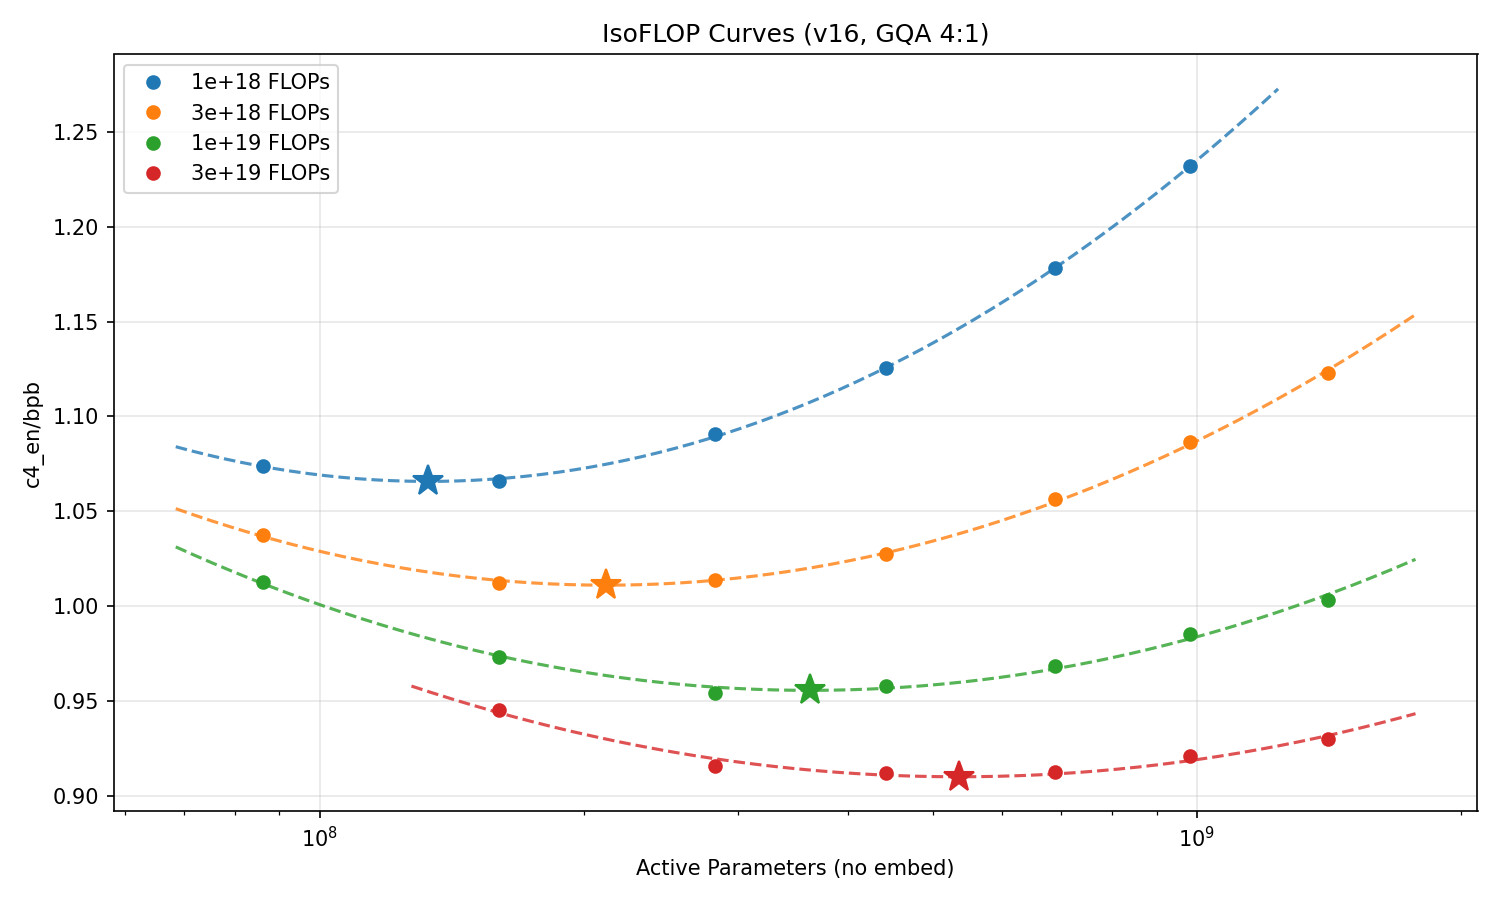
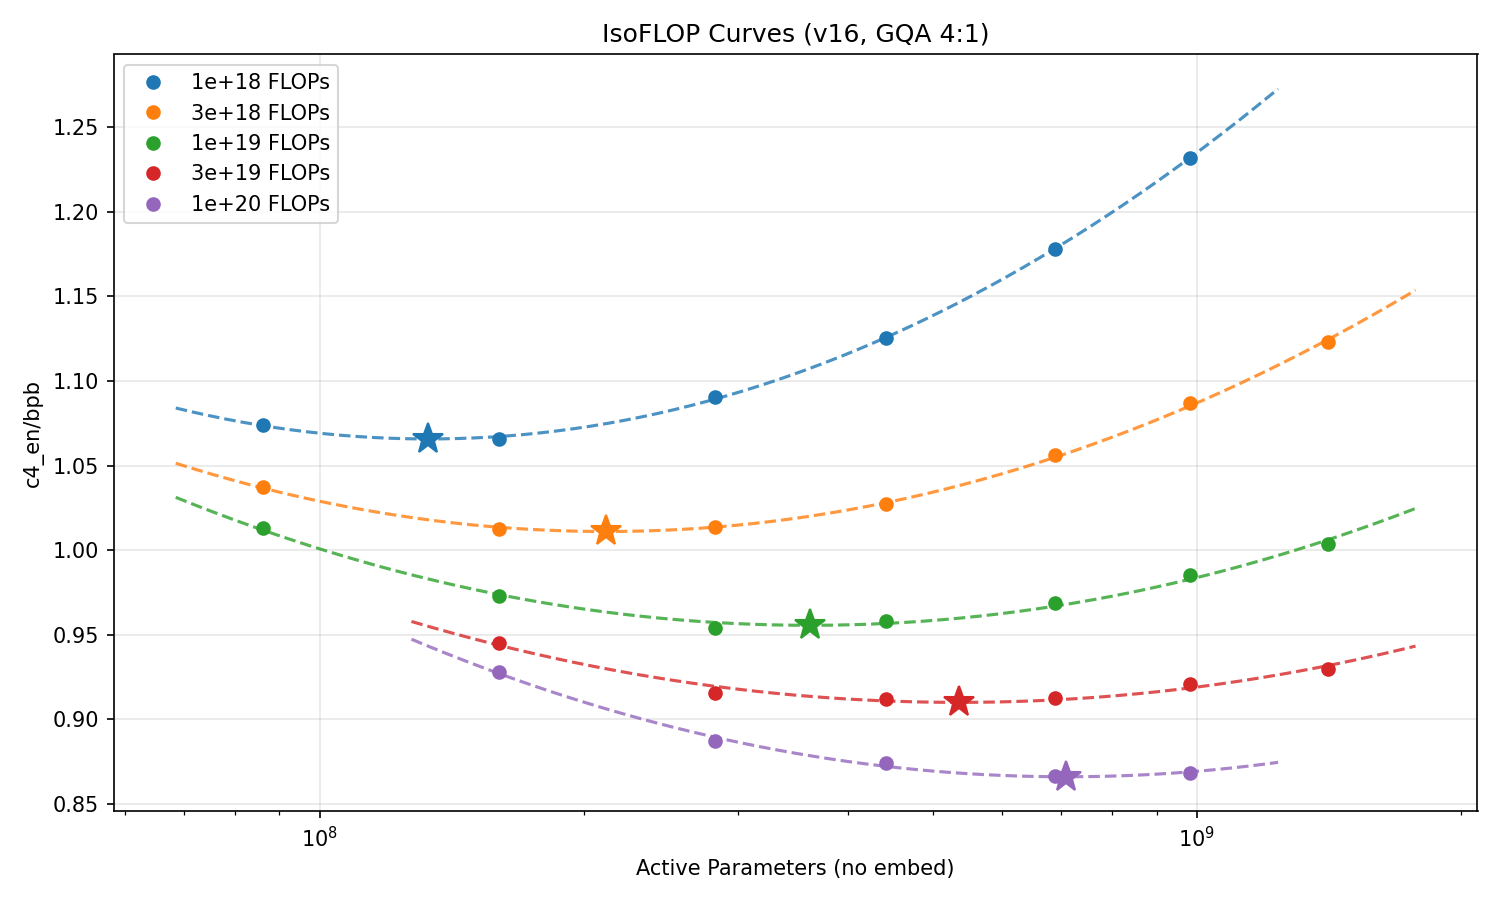
Update isoflop plots with 1e20, add macro_loss scaling law, N*/T* plots
- Include 1e20 data (6 dims) in isoflop curves
- Scaling law now uses paloma macro_loss: L∞=1.432 + 68.73·C^(-0.084)
- Add N*(C) and T*(C) separate subplots with no-lm_head params
  N* = 0.0674·C^0.492, T* = 2.57·C^0.507 (exponent sum = 0.999)
- Add expert_parallel config to GrugMoeLaunchConfig
- Add 1e21 d2048 and 3e20-d1280-v2 resume configs

diff --git a/experiments/grug/moe_apr2/new_plots/isoflop_curves.py b/experiments/grug/moe_apr2/new_plots/isoflop_curves.py
@@ -69,6 +69,11 @@ def compute_active_params(dim):
     return num_layers * per_layer + lm_head
 
 
+def compute_active_params_no_lmhead(dim):
+    """Active parameters excluding lm_head."""
+    return compute_active_params(dim) - dim * 128256
+
+
 def compute_fpt(dim):
     """FLOPs per token (no lm_head)."""
     hidden_head_ratio = 128
@@ -170,7 +175,7 @@ def main():
             continue
         by_budget.setdefault(r["budget"], []).append(r)
 
-    target_budgets = [1e18, 3e18, 1e19, 3e19]
+    target_budgets = [1e18, 3e18, 1e19, 3e19, 1e20]
     colors = {1e18: "C0", 3e18: "C1", 1e19: "C2", 3e19: "C3", 1e20: "C4"}
 
     # ---- Plot 1: IsoFLOP curves (BPB vs active params) ----
@@ -206,13 +211,15 @@ def main():
             ax.plot(10**log_grid, np.polyval(coeffs, log_grid), "--", color=color, alpha=0.8)
             ax.plot(opt_params, opt_bpb, "*", color=color, markersize=15)
 
-        # Compute FLOPs for the optimal
+        # Compute FLOPs and no-lmhead params for the optimal
+        best_dim = dims_sorted[np.argmin(bpbs_sorted)]
         optima.append(
             {
                 "budget": budget,
                 "opt_params": opt_params,
+                "opt_params_no_lm": compute_active_params_no_lmhead(best_dim),
                 "opt_bpb": opt_bpb,
-                "opt_tokens": budget / (3 * compute_fpt(dims_sorted[np.argmin(bpbs_sorted)])),
+                "opt_tokens": budget / (3 * compute_fpt(best_dim)),
             }
         )
 
@@ -321,17 +328,49 @@ def main():
     plt.close(fig1c)
     print("Saved isoflop_curves_tokens_macro_loss.png")
 
-    # ---- Plot 2: Optimal BPB vs Compute (scaling law) ----
-    if len(optima) >= 2:
+    # ---- Compute macro_loss optima and optimal tokens ----
+    macro_optima = []
+    for budget in target_budgets:
+        runs = by_budget.get(budget, [])
+        if not runs:
+            continue
+        dims = [r["dim"] for r in runs]
+        macros = [r.get("macro_loss") for r in runs]
+        if any(m is None for m in macros):
+            continue
+        params = [compute_active_params(d) for d in dims]
+        order = np.argsort(params)
+        params_sorted = np.array(params)[order]
+        macros_sorted = np.array(macros)[order]
+        dims_sorted = np.array(dims)[order]
+
+        log_params = np.log10(params_sorted)
+        coeffs = np.polyfit(log_params, macros_sorted, 2)
+        if coeffs[0] > 0:
+            opt_log = -coeffs[1] / (2 * coeffs[0])
+            opt_macro = np.polyval(coeffs, opt_log)
+            opt_params = 10**opt_log
+        else:
+            idx = np.argmin(macros_sorted)
+            opt_params = params_sorted[idx]
+            opt_macro = macros_sorted[idx]
+
+        # Find optimal tokens from FPT at nearest dim
+        best_dim = dims_sorted[np.argmin(macros_sorted)]
+        opt_tokens = budget / (3 * compute_fpt(best_dim))
+
+        macro_optima.append({"budget": budget, "opt_params": opt_params, "opt_macro": opt_macro, "opt_tokens": opt_tokens})
+
+    # ---- Plot 2: Optimal macro_loss vs Compute (scaling law) ----
+    if len(macro_optima) >= 2:
         fig2, ax2 = plt.subplots(figsize=(8, 5))
 
-        C_arr = np.array([o["budget"] for o in optima])
-        bpb_arr = np.array([o["opt_bpb"] for o in optima])
+        C_arr = np.array([o["budget"] for o in macro_optima])
+        macro_arr = np.array([o["opt_macro"] for o in macro_optima])
 
-        ax2.plot(C_arr, bpb_arr, "o", color="C0", markersize=10)
+        ax2.plot(C_arr, macro_arr, "o", color="C0", markersize=10)
 
-        # Fit asymptotic power law
-        fit = fit_asymptotic_powerlaw(C_arr, bpb_arr)
+        fit = fit_asymptotic_powerlaw(C_arr, macro_arr)
         if fit:
             C_grid = np.logspace(np.log10(C_arr.min()) - 0.3, np.log10(C_arr.max()) + 0.5, 200)
             yhat = fit["L_inf"] + fit["A"] * C_grid ** (-fit["alpha"])
@@ -344,29 +383,80 @@ def main():
                 label=f"L∞={fit['L_inf']:.3f} + {fit['A']:.2f}·C^(-{fit['alpha']:.3f})",
             )
             ax2.legend()
-            print(f"Scaling law: L_inf={fit['L_inf']:.4f}, A={fit['A']:.3f}, alpha={fit['alpha']:.4f}")
+            print(f"Scaling law (macro): L_inf={fit['L_inf']:.4f}, A={fit['A']:.3f}, alpha={fit['alpha']:.4f}")
 
-        for o in optima:
+        for o in macro_optima:
             ax2.annotate(
-                f"{o['budget']:.0e}", (o["budget"], o["opt_bpb"]), textcoords="offset points", xytext=(5, 5), fontsize=8
+                f"{o['budget']:.0e}", (o["budget"], o["opt_macro"]), textcoords="offset points", xytext=(5, 5), fontsize=8
             )
 
         ax2.set_xscale("log")
         ax2.set_xlabel("Compute (FLOPs, excl lm_head)")
-        ax2.set_ylabel("Optimal c4_en/bpb")
-        ax2.set_title("Optimal BPB vs Compute")
+        ax2.set_ylabel("Optimal paloma macro_loss")
+        ax2.set_title("Optimal macro_loss vs Compute")
         ax2.grid(True, alpha=0.3)
         fig2.tight_layout()
         fig2.savefig(f"{PLOT_DIR}/isoflop_scaling_law.png", dpi=150)
         plt.close(fig2)
         print("Saved isoflop_scaling_law.png")
 
+    # ---- Plot 3: N*(C) and T*(C) on separate subplots ----
+    if len(optima) >= 2:
+        fig3, (ax3a, ax3b) = plt.subplots(1, 2, figsize=(14, 5))
+
+        C_arr = np.array([o["budget"] for o in optima])
+        T_arr = np.array([o["opt_tokens"] for o in optima])
+        N_arr = np.array([o["opt_params_no_lm"] for o in optima])
+
+        # Fit power laws
+        a_t, b_t = np.polyfit(np.log10(C_arr), np.log10(T_arr), 1)
+        a_n, b_n = np.polyfit(np.log10(C_arr), np.log10(N_arr), 1)
+        C_grid = np.logspace(np.log10(C_arr.min()) - 0.3, np.log10(C_arr.max()) + 0.5, 200)
+
+        # Left: N*(C)
+        ax3a.plot(C_arr, N_arr, "s", color="C0", markersize=10)
+        ax3a.plot(C_grid, 10 ** (a_n * np.log10(C_grid) + b_n), "--", color="C0", alpha=0.5,
+                  label=f"N* = {10**b_n:.2e}·C^{{{a_n:.3f}}}")
+        for o in optima:
+            ax3a.annotate(f"{o['budget']:.0e}", (o["budget"], o["opt_params_no_lm"]),
+                          textcoords="offset points", xytext=(5, 5), fontsize=8)
+        ax3a.set_xscale("log")
+        ax3a.set_yscale("log")
+        ax3a.set_xlabel("Compute (FLOPs, excl lm_head)")
+        ax3a.set_ylabel("Optimal Active Params (no lm_head)")
+        ax3a.set_title("N*(C)")
+        ax3a.legend()
+        ax3a.grid(True, alpha=0.3)
+
+        # Right: T*(C)
+        ax3b.plot(C_arr, T_arr, "o", color="C1", markersize=10)
+        ax3b.plot(C_grid, 10 ** (a_t * np.log10(C_grid) + b_t), "--", color="C1", alpha=0.5,
+                  label=f"T* = {10**b_t:.2e}·C^{{{a_t:.3f}}}")
+        for o in optima:
+            ax3b.annotate(f"{o['budget']:.0e}", (o["budget"], o["opt_tokens"]),
+                          textcoords="offset points", xytext=(5, 5), fontsize=8)
+        ax3b.set_xscale("log")
+        ax3b.set_yscale("log")
+        ax3b.set_xlabel("Compute (FLOPs, excl lm_head)")
+        ax3b.set_ylabel("Optimal Tokens")
+        ax3b.set_title("T*(C)")
+        ax3b.legend()
+        ax3b.grid(True, alpha=0.3)
+
+        fig3.suptitle(f"Scaling Laws (exponent sum = {a_n + a_t:.3f})", fontsize=13)
+        fig3.tight_layout()
+        fig3.savefig(f"{PLOT_DIR}/isoflop_nt_scaling.png", dpi=150)
+        plt.close(fig3)
+        print(f"T*(C) = {10**b_t:.2e} · C^{a_t:.3f}")
+        print(f"N*(C) = {10**b_n:.2e} · C^{a_n:.3f}")
+        print("Saved isoflop_nt_scaling.png")
+
     # ---- Print summary table ----
     print("\nOptima:")
-    print(f"{'Budget':>10s}  {'Opt Params':>12s}  {'Opt BPB':>10s}")
-    print("-" * 36)
-    for o in optima:
-        print(f"{o['budget']:>10.0e}  {o['opt_params']:>12.2e}  {o['opt_bpb']:>10.4f}")
+    print(f"{'Budget':>10s}  {'Opt Params':>12s}  {'Opt BPB':>10s}  {'Opt Tokens':>12s}  {'Opt Macro':>10s}")
+    print("-" * 60)
+    for o, m in zip(optima, macro_optima):
+        print(f"{o['budget']:>10.0e}  {o['opt_params']:>12.2e}  {o['opt_bpb']:>10.4f}  {o['opt_tokens']:>12.2e}  {m['opt_macro']:>10.4f}")
 
 
 if __name__ == "__main__":

diff --git a/experiments/grug/moe_apr2/launch.py b/experiments/grug/moe_apr2/launch.py
@@ -54,6 +54,7 @@ class GrugMoeLaunchConfig:
     grug_trainer: GrugTrainerConfig = field(default_factory=GrugTrainerConfig)
     eval: GrugEvalConfig | None = field(default_factory=GrugEvalConfig)
     load_checkpoint_path: str | None = None
+    expert_parallel: int = 1
 
 
 def _resolve_tracker(tracker: TrackerConfig, run_id: str) -> TrackerConfig:
@@ -72,7 +73,7 @@ def run_grug_moe_trial(config: GrugMoeLaunchConfig) -> None:
         mp=jmp.get_policy(config.mp),
         tracker=_resolve_tracker(config.tracker, config.run_id),
         use_explicit_mesh_axes=True,
-        mesh=MeshConfig(axes={"expert": 1}),
+        mesh=MeshConfig(axes={"expert": config.expert_parallel}),
         require_accelerator=True,
         allow_nondivisible_batch_size=False,
         allow_partial_checkpoint=True,
@@ -1126,8 +1127,60 @@ def create_3e20_sweep() -> list[ExecutorStep]:
     return steps
 
 
+def create_1e21_d2048() -> list[ExecutorStep]:
+    """1e21 run at d2048, bs=1024, expert_parallel=4 on v4-512."""
+    hidden_dim = 2048
+    budget = 1e21
+    batch_size = 1024
+
+    model_cfg = HEURISTIC.build_model_config(hidden_dim)
+    fpt = _compute_flops_per_token(model_cfg)
+    tokens = budget / (3 * fpt)
+    train_steps = max(1, round(tokens / (batch_size * SEQ_LEN)))
+    actual_tokens = train_steps * batch_size * SEQ_LEN
+    optimizer = HEURISTIC.build_optimizer_config(batch_size, actual_tokens, hidden_dim)
+
+    run_id = "isoflop-moe-v16-1e+21-d2048"
+    config = GrugMoeLaunchConfig(
+        model=versioned(model_cfg),
+        data=NEMOTRON_MIX_WITH_DEFAULT_VALIDATION,
+        output_path=this_output_path(),
+        run_id=run_id,
+        resources=versioned(ResourceConfig.with_tpu("v4-512")),
+        steps=versioned(train_steps),
+        batch_size=versioned(batch_size),
+        seed=versioned(0),
+        mp=versioned("params=float32,compute=bfloat16,output=bfloat16"),
+        tracker=WandbConfig(
+            project="dial_moe",
+            tags=["grug", "moe-core", "isoflop", "v16", "gqa4", "budget=1e+21", "d=2048"],
+            group="isoflop-moe-v16",
+            name=run_id,
+        ),
+        optimizer=versioned(optimizer),
+        grug_trainer=versioned(
+            GrugTrainerConfig(
+                z_loss_weight=HEURISTIC.z_loss_weight,
+                ema_beta=None,
+                log_every=1,
+            )
+        ),
+        eval=versioned(
+            GrugEvalConfig(
+                eval_batch_size=256,
+                steps_per_eval=1000,
+                max_eval_batches=64,
+                eval_current=True,
+                eval_ema=False,
+            )
+        ),
+        expert_parallel=4,
+    )
+    return [ExecutorStep(name=f"grug/{run_id}", fn=run_grug_moe_trial, config=config)]
+
+
 if __name__ == "__main__":
     executor_main(
-        steps=create_3e20_sweep(),
-        description="v16: 3e20 isoflop sweep d1280-d2304 bs=256 on v4-128",
+        steps=create_v2_resume(1e20, 1280, "v2-a75379", 79000, suffix="-v3", tpu_type="v4-32"),
+        description="v16: resume 1e20-d1280-v3 from v2 step-79000 on v4-32",
     )
